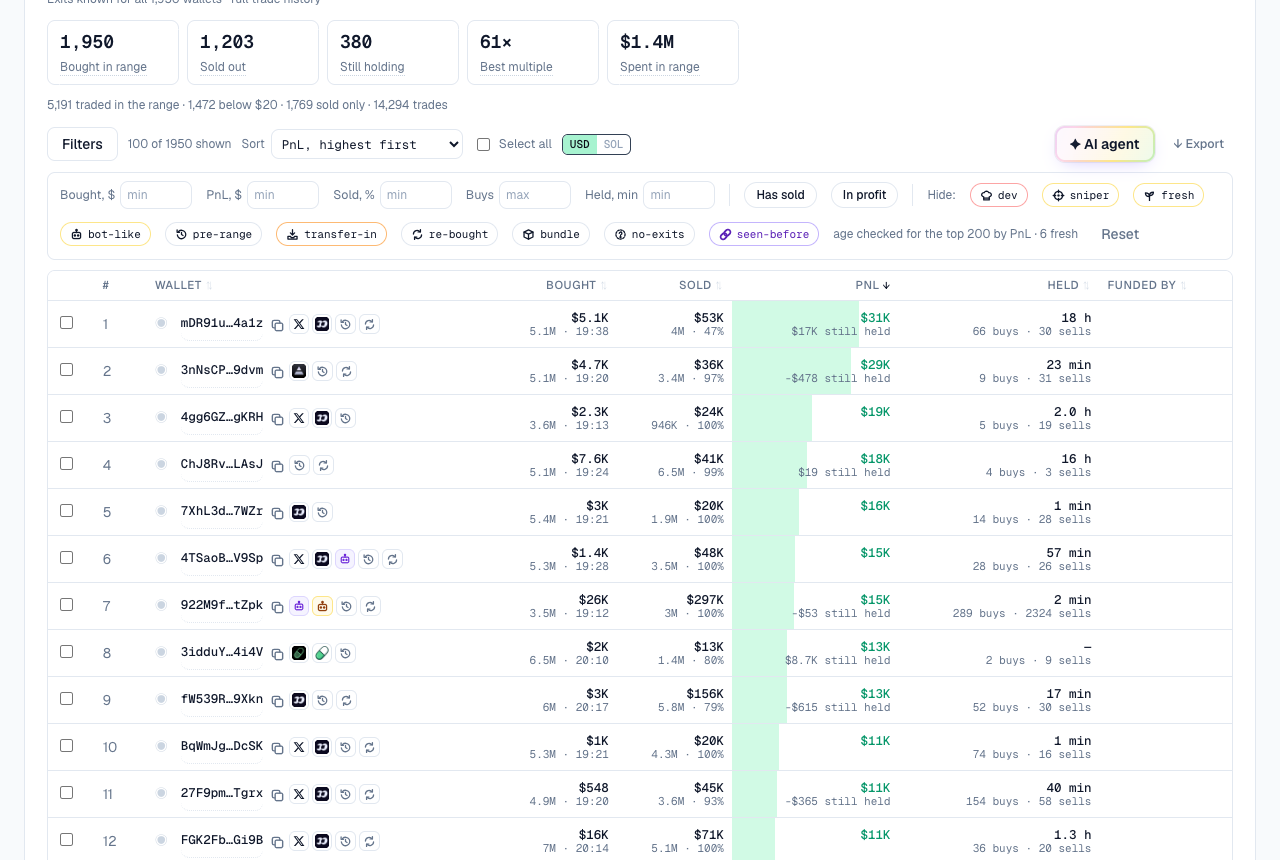
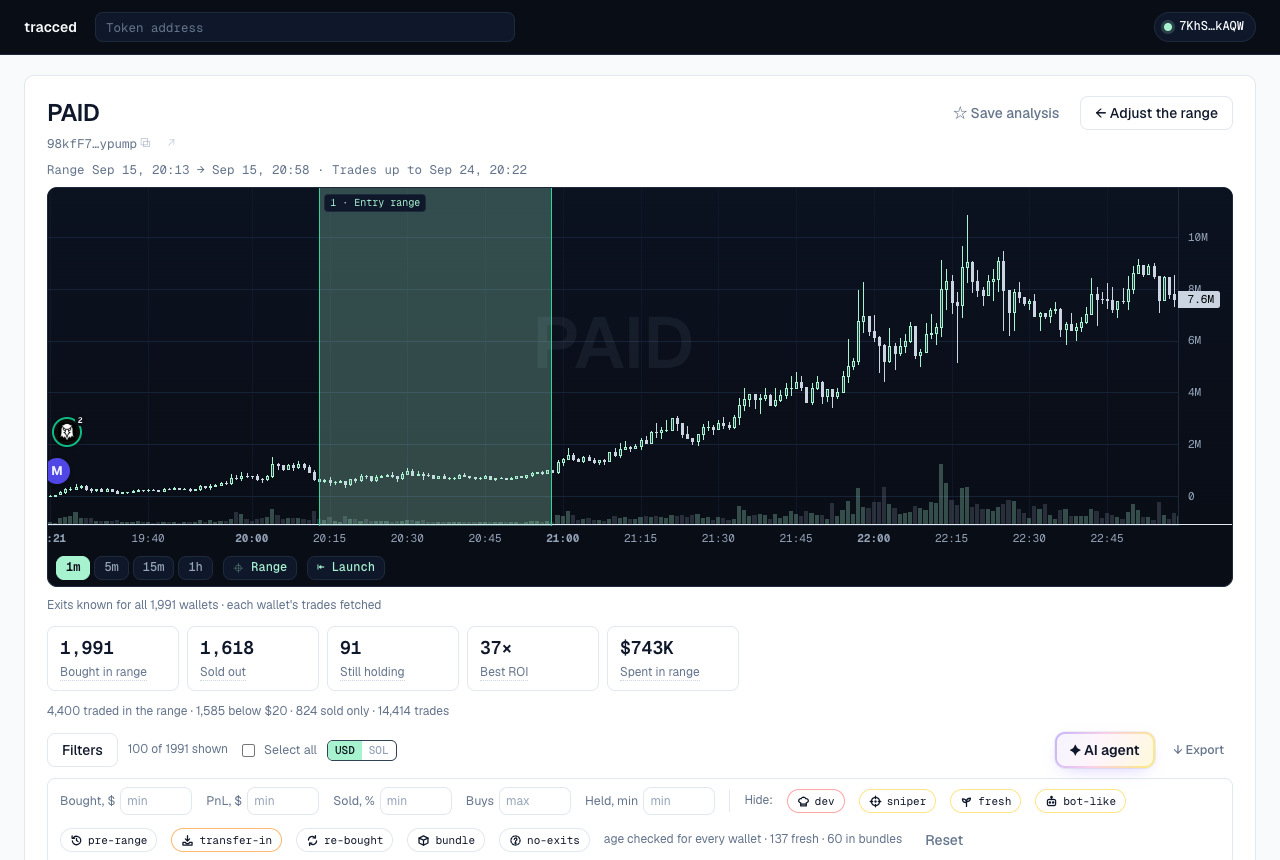
README: fresh result and card screenshots, and the AI agent

diff --git a/README.md b/README.md
@@ -42,6 +42,13 @@ is, small marks say so: a star for a KOL, its X account, the app it trades throu
 
 ![Wallet card](docs/img/card.png)
 
+With a wallet connected, the AI agent reads the analysis on the page and writes three short cards: what happened
+in the range, what to weigh, and whose wallets stand out. Then ask it about the analysis in your own language.
+Every number it writes is checked against the table before you see it, and it answers nothing but the analysis.
+[The AI agent →](https://tracced.xyz/docs/how-it-works#the-ai-agent)
+
+![AI agent](docs/img/agent.png)
+
 Keep what you find in several named lists, tag wallets in your own words, and export a list as CSV or TXT.
 [Your account →](https://tracced.xyz/docs/account)
 
